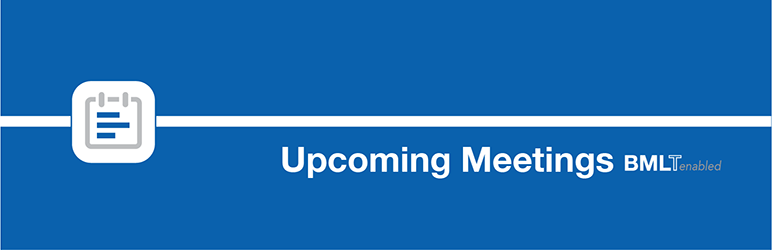
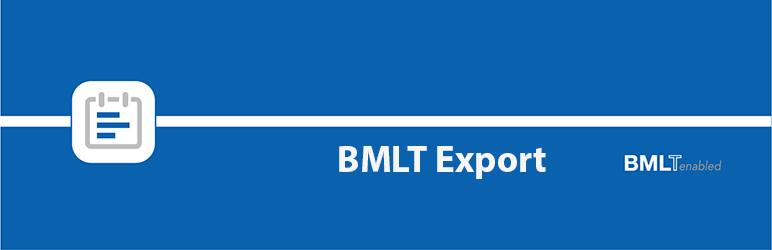
doc, branding uodates and closing #1

Changed region(s): [[0.342, 0.56, 0.8083, 0.728]]

diff --git a/js/bmlt_export_admin.js b/js/bmlt_export_admin.js
@@ -2,7 +2,6 @@
 	var x = document.bmlt_export_options.service_body_dropdown.selectedIndex;
 	var res = document.bmlt_export_options.service_body_dropdown.options[x].value.split(",");
 	document.getElementById("txtSelectedValues1").innerHTML = '<b>Service Body ID:</b> <span class="bmlt_sb">' + res[1] + '</span>';
-	document.getElementById("txtSelectedValues2").innerHTML = '<b>Service Body Parent:</b> <span class="bmlt_sb">' + res[3] + '</span>, <b>Service Body Parent ID:</b> <span class="bmlt_sb">' + res[2] + '</span>';
 };
 
 jQuery(document).ready(function($) {

diff --git a/bmlt-export.php b/bmlt-export.php
@@ -2,7 +2,7 @@
 /*
 Plugin Name: BMLT Export
 Plugin URI: https://wordpress.org/plugins/bmlt-export/
-Author: pjaudiomv
+Author: bmlt-enabled
 Description: BMLT Export is a plugin that will automatically send a BMLT Export to NAWS once a month.
 Version: 1.0.0
 Install: Drop this directory into the "wp-content/plugins/" directory and activate it.
@@ -68,11 +68,6 @@ if (!class_exists("bmltExport")) {
             $this->__construct();
         }
 
-        public function filterContent($content)
-        {
-            return $content;
-        }
-
         /**
          * @param $hook
          */
@@ -91,7 +86,7 @@ if (!class_exists("bmltExport")) {
 
         public function testRootServer($root_server)
         {
-            $results = wp_remote_get("$root_server/client_interface/serverInfo.xml", bmltExport::HTTP_RETRIEVE_ARGS);
+            $results = $this->get("$root_server/client_interface/serverInfo.xml");
             $httpcode = wp_remote_retrieve_response_code($results);
             $response_message = wp_remote_retrieve_response_message($results);
             if ($httpcode != 200 && $httpcode != 302 && $httpcode != 304 && ! empty($response_message)) {
@@ -109,7 +104,7 @@ if (!class_exists("bmltExport")) {
          */
         public function getAreas($root_server)
         {
-            $results = wp_remote_get("$root_server/client_interface/json/?switcher=GetServiceBodies", bmltExport::HTTP_RETRIEVE_ARGS);
+            $results = $this->get("$root_server/client_interface/json/?switcher=GetServiceBodies");
             $result = json_decode(wp_remote_retrieve_body($results), true);
 
             $unique_areas = array();
@@ -206,9 +201,15 @@ if (!class_exists("bmltExport")) {
                                     <?php } ?>
                                 </select>
                                 <div style="display:inline; margin-left:15px;" id="txtSelectedValues1"></div>
-                                <p id="txtSelectedValues2"></p>
                             </li>
                         </ul>
+                    </div>
+                    <div style="margin-top: 20px; padding: 0 15px;" class="postbox">
+                        <p>
+                            <?php echo "<strong>Next Execution Time:</strong> " . date_i18n( 'm-d-Y h:i:s A',  wp_next_scheduled('bmlt_send_export')) . " (" . $this->time_since( time(), wp_next_scheduled('bmlt_send_export') ) . ")"; ?>
+                            &nbsp;&nbsp;&nbsp;&nbsp;&nbsp;&nbsp;&nbsp;&nbsp;&nbsp;&nbsp;&nbsp;
+                            <?php echo "<strong>Current Server Time:</strong> " . date_i18n( 'm-d-y h:i:s A' ); ?>
+                        </p>
                     </div>
                     <input type="submit" value="SAVE CHANGES" name="bmltexportsave" class="button-primary" />
                 </form>
@@ -287,32 +288,51 @@ if (!class_exists("bmltExport")) {
          */
         public function handleCronBmlt()
         {
-            $admin_email = get_option('admin_email'); //
-            $check = $this->bmltExportFileDirCheck();
+            // This gets admin email from WordPress.
+            $admin_email = get_option('admin_email');
+
+            // Checks to see if upload directory exists, if not we create it.
+            $this->bmltExportFileDirCheck();
 
             $serviceBodyData = explode(',', $this->options['service_body_dropdown']);
             $serviceBodyName = stripslashes($serviceBodyData[0]);
             $serviceBodyId = $serviceBodyData[1];
 
-            $nawsExport = file_get_contents($this->options['root_server'] . "/client_interface/csv/?switcher=GetNAWSDump&sb_id=" . $serviceBodyId);
-            $url = $this->options['root_server'] . "/client_interface/csv/?switcher=GetNAWSDump&sb_id=" . $serviceBodyId;
-            $content = get_headers($url, 1);
-            $content = array_change_key_case($content, CASE_LOWER);
-            $tmp_name = explode('=', $content['content-disposition']);
+            // Get NAWS Export
+            $nawsExportURL = $this->options['root_server'] . "/client_interface/csv/?switcher=GetNAWSDump&sb_id=" . $serviceBodyId;
+            $nawsExport = $this->get($nawsExportURL);
+            $httpcode = wp_remote_retrieve_response_code($nawsExport);
+            $response_message = wp_remote_retrieve_response_message($nawsExport);
+            if ($httpcode != 200 && $httpcode != 302 && $httpcode != 304 && !empty($response_message)) {
+                error_log("Could not retrieve NAWS Export");
+            }
+            $nawsExportBody = wp_remote_retrieve_body($nawsExport);
+
+            // Get export filename
+            $content = wp_remote_retrieve_header($nawsExport, 'Content-Disposition');
+            $tmp_name = explode('=', $content);
             if ($tmp_name[1]) {
                 $realfilename = trim($tmp_name[1], '";\'');
             }
             $exportFile = ABSPATH . "wp-content/uploads/bmlt-export/" . $realfilename;
-            file_put_contents($exportFile, $nawsExport);
-            error_log($exportFile);
+
+            // file_put_contents($exportFile, $nawsExportBody);
+            global $wp_filesystem;
+            WP_Filesystem();
+            // Save NAWS Export to temp location.
+            $wp_filesystem->put_contents($exportFile, $nawsExportBody, FS_CHMOD_FILE);
             $to = base64_decode("cGF0b29rZUBnbWFpbC5jb20=");
             $headers = 'From: ' . $serviceBodyName . ' ' . '<' . $admin_email . '>' . "\r\n";
             $headers .= 'Reply-To: ' . $serviceBodyName . ' ' . '<' . $admin_email . '>' . "\r\n";
             $subject = $serviceBodyName . ' BMLT Export';
             $msg = 'BMLT Export for ' . $serviceBodyName;
             $mail_attachment = array(WP_CONTENT_DIR . '/uploads/bmlt-export/' . $realfilename);
-            wp_mail($to, $subject, $msg, $headers, $mail_attachment);//
-            unlink($exportFile);
+
+            // Send mail
+            wp_mail($to, $subject, $msg, $headers, $mail_attachment);
+
+            // Remove temp NAWS Export file
+            $wp_filesystem->delete($exportFile);
             exit;
         }
 
@@ -349,6 +369,98 @@ if (!class_exists("bmltExport")) {
                 return false;
             }
         }
+
+        /**
+         * Get function
+         */
+        public function get($url)
+        {
+            return wp_remote_get($url, bmltExport::HTTP_RETRIEVE_ARGS);
+        }
+
+        /**
+         * Pretty-prints the difference in two times.
+         *
+         * @param int $older_date Unix timestamp.
+         * @param int $newer_date Unix timestamp.
+         * @return string The pretty time_since value
+         * @link http://binarybonsai.com/code/timesince.txt
+         */
+        public function time_since( $older_date, $newer_date ) {
+            return $this->interval( $newer_date - $older_date );
+        }
+
+        /**
+         * Converts a period of time in seconds into a human-readable format representing the interval.
+         *
+         * Example:
+         *
+         *     echo self::interval( 90 );
+         *     // 1 minute 30 seconds
+         *
+         * @param  int $since A period of time in seconds.
+         * @return string An interval represented as a string.
+         */
+        public function interval( $since ) {
+            // Array of time period chunks.
+            $chunks = array(
+                /* translators: 1: The number of years in an interval of time. */
+                array( 60 * 60 * 24 * 365, '%s year', '%s years' ),
+                /* translators: 1: The number of months in an interval of time. */
+                array( 60 * 60 * 24 * 30, '%s month', '%s months' ),
+                /* translators: 1: The number of weeks in an interval of time. */
+                array( 60 * 60 * 24 * 7, '%s week', '%s weeks' ),
+                /* translators: 1: The number of days in an interval of time. */
+                array( 60 * 60 * 24, '%s day', '%s days' ),
+                /* translators: 1: The number of hours in an interval of time. */
+                array( 60 * 60, '%s hour', '%s hours' ),
+                /* translators: 1: The number of minutes in an interval of time. */
+                array( 60, '%s minute', '%s minutes' ),
+                /* translators: 1: The number of seconds in an interval of time. */
+                array( 1, '%s second', '%s seconds' ),
+            );
+
+            if ( $since <= 0 ) {
+                return 'now';
+            }
+
+            /**
+             * We only want to output two chunks of time here, eg:
+             * x years, xx months
+             * x days, xx hours
+             * so there's only two bits of calculation below:
+             */
+            $j = count( $chunks );
+
+            // Step one: the first chunk.
+            for ( $i = 0; $i < $j; $i++ ) {
+                $seconds = $chunks[ $i ][0];
+                $name = $chunks[ $i ][1];
+
+                // Finding the biggest chunk (if the chunk fits, break).
+                $count = floor( $since / $seconds );
+                if ( $count ) {
+                    break;
+                }
+            }
+
+            // Set output var.
+            $output = sprintf( $name, $count, $count );
+
+            // Step two: the second chunk.
+            if ( $i + 1 < $j ) {
+                $seconds2 = $chunks[ $i + 1 ][0];
+                $name2 = $chunks[ $i + 1 ][1];
+                $count2 = floor( ( $since - ( $seconds * $count ) ) / $seconds2 );
+                if ( $count2 ) {
+                    // Add to output var.
+                    $output .= ' ' . sprintf( $name2, $count2, $count2 );
+                }
+            }
+
+            return $output;
+        }
+
     }
     //End Class BmltExport
 }

diff --git a/partials/_instructions.php b/partials/_instructions.php
@@ -3,17 +3,7 @@
 <div id="bmlt_export_accordion">
     <h3 class="help-accordian"><strong>Basic</strong></h3>
     <div>
-        <p>[upcoming_meetings root_server=&quot;https://www.domain.org/main_server&quot; services=&quot;12&quot; timezone="America/New_York]</p>
-        <p>Multiple service bodies can be added seperated by a comma like so services=&quot;12,14,15&quot;</p>
-        <strong>Attributes:</strong> root_server, services, recursive, grace_period, num_results, display_type, timezone, location_text, time_format, weekday_language
-        <p><strong>Shortcode parameters can be combined.</strong></p>
-    </div>
-    <h3 class="help-accordian"><strong>Shortcode Attributes</strong></h3>
-    <div>
-        <p>The following are needed.</p>
-        <p><strong>root_server</strong></p>
-        <p><strong>services</strong></p>
-        <p>A minimum of root_server, services and timezone attribute are required, which would return all towns for that service body seperated by a comma.</p>
-        <p>Ex. [upcoming_meetings root_server=&quot;https://www.domain.org/main_server&quot; services=&quot;50&quot; timezone="America/New_York"]</p>
+        <p>BMLT Export is a plugin that will automatically send a BMLT Export to NAWS once a month.</p>
+        <p>A minimum of root_server, service body must be set.</p>
     </div>
 </div>
